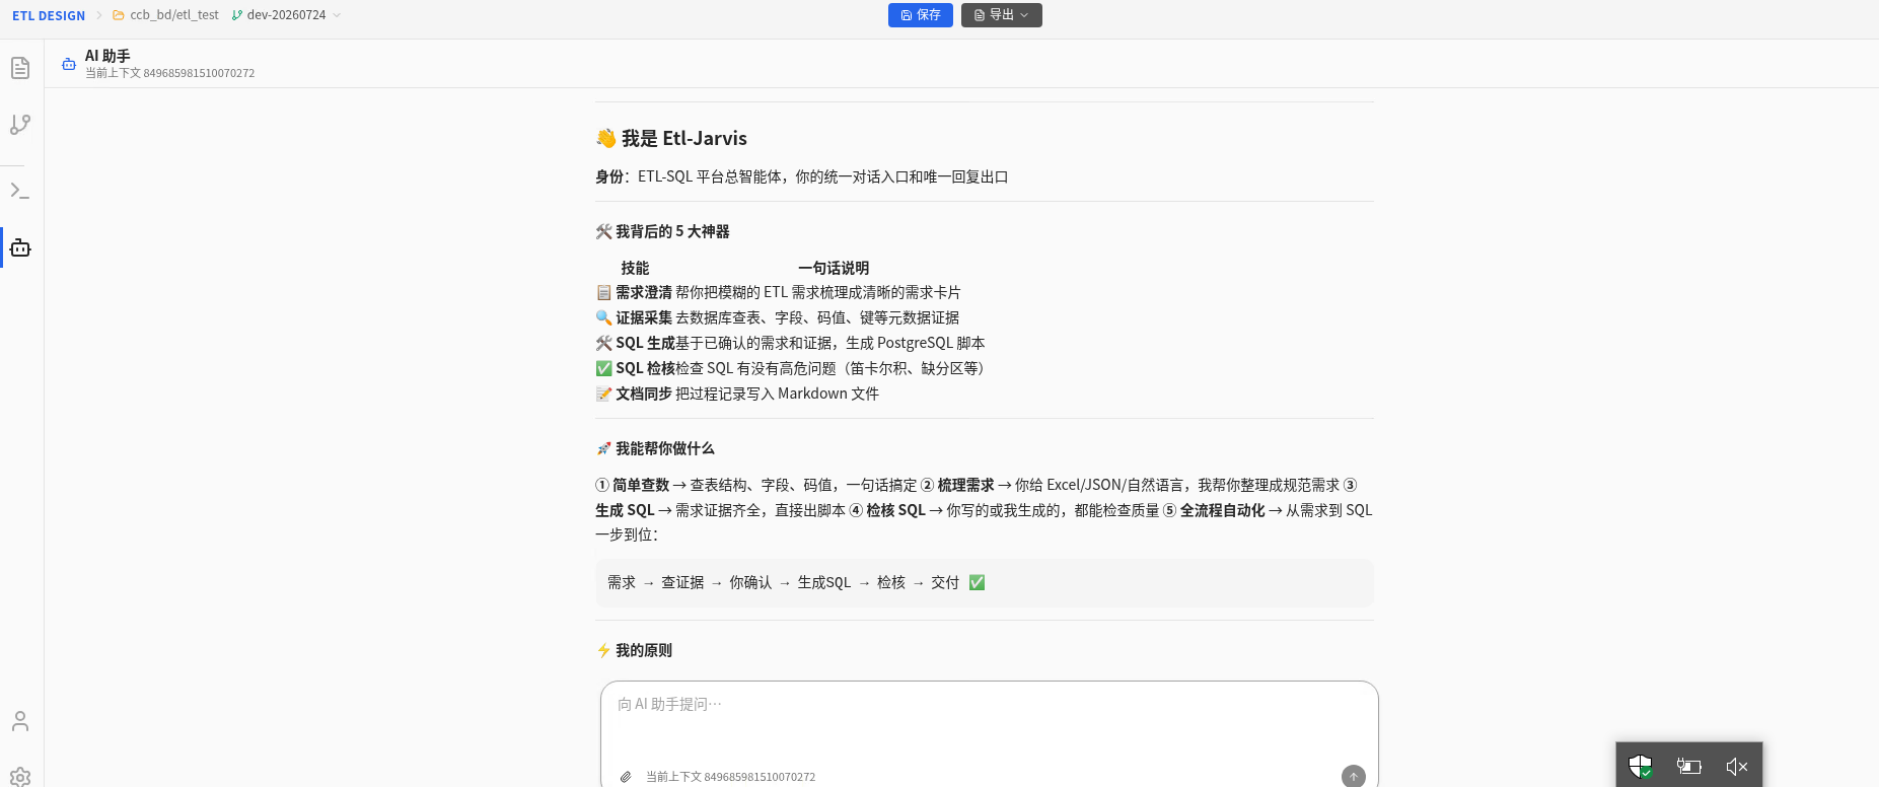
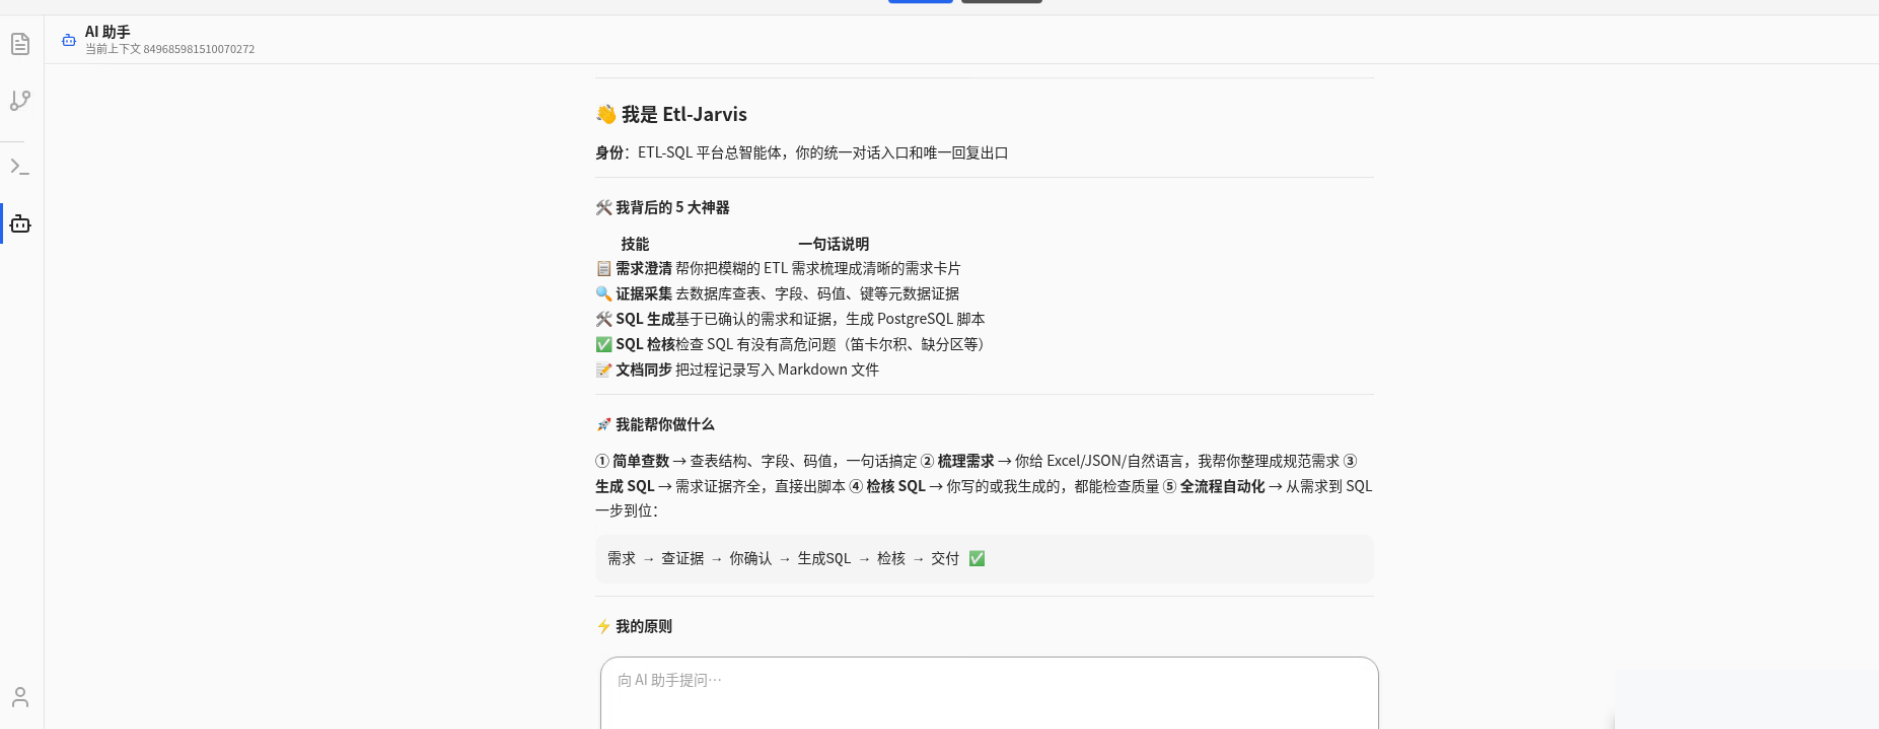
fix(portfolio): replace screenshots containing internal identifiers
- Removed etl-design.png (payroll table names, env identifier oral_test)
  and lineage-view.png (employee-ID watermark, internal tables)
- ETL platform now shows the data-dev design blueprint (8-step closed
  loop, zero sensitive content)
- Merged lineage + graph platform into one entry (graph-platform.png)
- ai-assistant.png cropped top env bar (ccb_bizl_test/dev-20260724) and
  bottom status bar (MySQL prod_db_01), whitewashed leftover artifact

diff --git a/portfolio/index.html b/portfolio/index.html
@@ -1,1 +1,1 @@
-<!doctype html><html lang="zh-CN"><head><meta charset="utf-8"><meta name="viewport" content="width=device-width,initial-scale=1"><meta name="description" content="作品集 — 数据可视化、AI 应用、研发平台与产品设计项目。"><meta name="theme-color" content="#0b49ff"><link rel="canonical" href="https://mrcharm.github.io/cat-grok-website/portfolio/"><meta property="og:type" content="website"><meta property="og:locale" content="zh_CN"><meta property="og:site_name" content="猫哥 · 向 2031 生长"><meta property="og:title" content="作品集 · 猫哥 JARVIS"><meta property="og:description" content="作品集 — 数据可视化、AI 应用、研发平台与产品设计项目。"><meta property="og:url" content="https://mrcharm.github.io/cat-grok-website/portfolio/"><meta property="og:image" content="https://mrcharm.github.io/cat-grok-website/og.png"><meta property="og:image:width" content="1200"><meta property="og:image:height" content="630"><meta property="og:image:alt" content="猫哥沿着职业、学习、生活与作品的路径向 2031 生长"><meta name="twitter:card" content="summary_large_image"><meta name="twitter:title" content="作品集 · 猫哥 JARVIS"><meta name="twitter:description" content="作品集 — 数据可视化、AI 应用、研发平台与产品设计项目。"><meta name="twitter:image" content="https://mrcharm.github.io/cat-grok-website/og.png"><title>作品集 · 猫哥 JARVIS</title><link rel="stylesheet" href="../assets/styles/site.css"></head><body class=""><a class="skip-link" href="#main">跳到主要内容</a><header class="site-header"><a class="brand" href="../index.html"><span class="brand-mark" aria-hidden="true">C</span><span>MR.C <b>JARVIS</b></span></a><div class="topbar-right"><nav id="site-nav" class="nav" data-open="false" aria-label="主导航"><a href="../index.html" data-route="home">首页</a><a href="../articles/" data-route="articles">文章</a><a href="../skills/" data-route="skills">技能</a><a href="../portfolio/" data-route="portfolio" aria-current="page">作品集</a></nav><button class="menu-button" type="button" aria-expanded="false" aria-controls="site-nav">菜单</button><button class="music-btn playing" type="button" aria-label="停止背景音乐：《鲜花》" aria-pressed="true"><span class="bar" aria-hidden="true"><i></i><i></i><i></i><i></i></span><span>音乐</span></button></div></header><iframe class="background-music-frame" id="background-music-frame" title="背景音乐：回春丹乐队《鲜花》" aria-hidden="true" tabindex="-1" src="https://music.163.com/outchain/player?type=2&amp;id=2086327879&amp;auto=1&amp;height=32"></iframe><main id="main"><div class="page-wrap" data-page-module="portfolio"><section class="page-hero"><p class="kicker">PORTFOLIO · SELECTED WORKS</p><h1>作品集</h1><p>数据可视化、AI 应用、研发平台与产品设计——我做过的一些东西。</p></section><div class="portfolio-grid"><article class="portfolio-item"><div class="portfolio-thumb">🤖</div><div class="portfolio-info"><h3>JARVIS 陪伴系统</h3><p>一个基于 Three.js 的沉浸式 AI 陪伴界面，包含语音交互、情绪识别与长期记忆模拟。</p><div class="portfolio-meta"><span class="portfolio-tag highlight">Three.js</span><span class="portfolio-tag">Web Speech API</span><span class="portfolio-tag">产品原型</span></div><a class="portfolio-link" href="../index.html">查看项目 →</a></div></article><article class="portfolio-item"><div class="portfolio-thumb"><img src="../assets/portfolio/etl-design.png" alt="ETL 在线设计平台" loading="lazy"></div><div class="portfolio-info"><h3>ETL 在线设计平台</h3><p>面向数据研发的一站式 Web IDE：映射设计、流程编排、SQL 预览与 Git 版本管理，覆盖脚本开发全生命周期。</p><div class="portfolio-meta"><span class="portfolio-tag highlight">B 端产品</span><span class="portfolio-tag">Web IDE</span><span class="portfolio-tag">数据研发</span></div><span class="portfolio-link muted">内部平台 · 界面演示</span></div></article><article class="portfolio-item"><div class="portfolio-thumb"><img src="../assets/portfolio/ai-assistant.png" alt="AI 数据研发 Copilot" loading="lazy"></div><div class="portfolio-info"><h3>AI 数据研发 Copilot</h3><p>平台内置 AI 助手「Etl-Jarvis」：需求澄清、证据采集、SQL 生成、检核与文档同步的全流程自动化。</p><div class="portfolio-meta"><span class="portfolio-tag highlight">NL2SQL</span><span class="portfolio-tag">AI 助手</span><span class="portfolio-tag">Agent</span></div><span class="portfolio-link muted">已投产 · 界面演示</span></div></article><article class="portfolio-item"><div class="portfolio-thumb"><img src="../assets/portfolio/lineage-view.png" alt="数据血缘与知识图谱平台" loading="lazy"></div><div class="portfolio-info"><h3>数据血缘与知识图谱平台</h3><p>从烟囱式数据架构到全行统一血缘图谱的设计与落地：脚本血缘解析、影响分析与链路追踪。</p><div class="portfolio-meta"><span class="portfolio-tag highlight">数据治理</span><span class="portfolio-tag">血缘解析</span><span class="portfolio-tag">可视化</span></div><span class="portfolio-link muted">内部平台 · 界面演示</span></div></article><article class="portfolio-item"><div class="portfolio-thumb"><img src="../assets/portfolio/graph-platform.png" alt="知识图谱 · 图平台" loading="lazy"></div><div class="portfolio-info"><h3>知识图谱 · 图平台</h3><p>基于图数据库的图谱构建与可视化查询：K 层展开、路径分析、图算法与自定义规则查询。</p><div class="portfolio-meta"><span class="portfolio-tag highlight">知识图谱</span><span class="portfolio-tag">图查询</span><span class="portfolio-tag">关系网络</span></div><span class="portfolio-link muted">平台功能演示</span></div></article><article class="portfolio-item placeholder"><div class="portfolio-thumb">⏳</div><div class="portfolio-info"><h3>更多项目</h3><p>AI 应用探索、研发平台重构、数据可视化大屏——持续补充中。</p><div class="portfolio-meta"><span class="portfolio-tag highlight">AI 应用</span><span class="portfolio-tag">研发平台</span><span class="portfolio-tag">数据大屏</span></div><span class="portfolio-link muted">敬请期待</span></div></article></div></div></main><footer><strong>猫哥 · JARVIS</strong><span>AI 陪伴系统 · 静态生成</span></footer><script type="module" src="../assets/js/site.js"></script></body></html>
+<!doctype html><html lang="zh-CN"><head><meta charset="utf-8"><meta name="viewport" content="width=device-width,initial-scale=1"><meta name="description" content="作品集 — 数据可视化、AI 应用、研发平台与产品设计项目。"><meta name="theme-color" content="#0b49ff"><link rel="canonical" href="https://mrcharm.github.io/cat-grok-website/portfolio/"><meta property="og:type" content="website"><meta property="og:locale" content="zh_CN"><meta property="og:site_name" content="猫哥 · 向 2031 生长"><meta property="og:title" content="作品集 · 猫哥 JARVIS"><meta property="og:description" content="作品集 — 数据可视化、AI 应用、研发平台与产品设计项目。"><meta property="og:url" content="https://mrcharm.github.io/cat-grok-website/portfolio/"><meta property="og:image" content="https://mrcharm.github.io/cat-grok-website/og.png"><meta property="og:image:width" content="1200"><meta property="og:image:height" content="630"><meta property="og:image:alt" content="猫哥沿着职业、学习、生活与作品的路径向 2031 生长"><meta name="twitter:card" content="summary_large_image"><meta name="twitter:title" content="作品集 · 猫哥 JARVIS"><meta name="twitter:description" content="作品集 — 数据可视化、AI 应用、研发平台与产品设计项目。"><meta name="twitter:image" content="https://mrcharm.github.io/cat-grok-website/og.png"><title>作品集 · 猫哥 JARVIS</title><link rel="stylesheet" href="../assets/styles/site.css"></head><body class=""><a class="skip-link" href="#main">跳到主要内容</a><header class="site-header"><a class="brand" href="../index.html"><span class="brand-mark" aria-hidden="true">C</span><span>MR.C <b>JARVIS</b></span></a><div class="topbar-right"><nav id="site-nav" class="nav" data-open="false" aria-label="主导航"><a href="../index.html" data-route="home">首页</a><a href="../articles/" data-route="articles">文章</a><a href="../skills/" data-route="skills">技能</a><a href="../portfolio/" data-route="portfolio" aria-current="page">作品集</a></nav><button class="menu-button" type="button" aria-expanded="false" aria-controls="site-nav">菜单</button><button class="music-btn playing" type="button" aria-label="停止背景音乐：《鲜花》" aria-pressed="true"><span class="bar" aria-hidden="true"><i></i><i></i><i></i><i></i></span><span>音乐</span></button></div></header><iframe class="background-music-frame" id="background-music-frame" title="背景音乐：回春丹乐队《鲜花》" aria-hidden="true" tabindex="-1" src="https://music.163.com/outchain/player?type=2&amp;id=2086327879&amp;auto=1&amp;height=32"></iframe><main id="main"><div class="page-wrap" data-page-module="portfolio"><section class="page-hero"><p class="kicker">PORTFOLIO · SELECTED WORKS</p><h1>作品集</h1><p>数据可视化、AI 应用、研发平台与产品设计——我做过的一些东西。</p></section><div class="portfolio-grid"><article class="portfolio-item"><div class="portfolio-thumb">🤖</div><div class="portfolio-info"><h3>JARVIS 陪伴系统</h3><p>一个基于 Three.js 的沉浸式 AI 陪伴界面，包含语音交互、情绪识别与长期记忆模拟。</p><div class="portfolio-meta"><span class="portfolio-tag highlight">Three.js</span><span class="portfolio-tag">Web Speech API</span><span class="portfolio-tag">产品原型</span></div><a class="portfolio-link" href="../index.html">查看项目 →</a></div></article><article class="portfolio-item"><div class="portfolio-thumb"><img src="../assets/portfolio/design-blueprint.png" alt="ETL 在线设计平台" loading="lazy"></div><div class="portfolio-info"><h3>ETL 在线设计平台</h3><p>面向数据研发的一站式 Web IDE。主导设计了「模型/需求 → PERL 脚本」的八步闭环：解析设计输入、补齐元数据、加工逻辑设计、SQL 生成、规则检核到试运行验证。</p><div class="portfolio-meta"><span class="portfolio-tag highlight">B 端产品</span><span class="portfolio-tag">Web IDE</span><span class="portfolio-tag">方法论设计</span></div><span class="portfolio-link muted">设计方案演示</span></div></article><article class="portfolio-item"><div class="portfolio-thumb"><img src="../assets/portfolio/ai-assistant.png" alt="AI 数据研发 Copilot" loading="lazy"></div><div class="portfolio-info"><h3>AI 数据研发 Copilot</h3><p>平台内置 AI 助手「Etl-Jarvis」：需求澄清、证据采集、SQL 生成、检核与文档同步的全流程自动化。</p><div class="portfolio-meta"><span class="portfolio-tag highlight">NL2SQL</span><span class="portfolio-tag">AI 助手</span><span class="portfolio-tag">Agent</span></div><span class="portfolio-link muted">已投产 · 界面演示</span></div></article><article class="portfolio-item"><div class="portfolio-thumb"><img src="../assets/portfolio/graph-platform.png" alt="数据血缘 · 图谱平台" loading="lazy"></div><div class="portfolio-info"><h3>数据血缘 · 图谱平台</h3><p>从烟囱式数据架构到全行统一血缘图谱的设计与落地：脚本血缘解析、K 层展开、路径分析与图算法应用。</p><div class="portfolio-meta"><span class="portfolio-tag highlight">数据治理</span><span class="portfolio-tag">知识图谱</span><span class="portfolio-tag">可视化</span></div><span class="portfolio-link muted">平台功能演示</span></div></article><article class="portfolio-item placeholder"><div class="portfolio-thumb">⏳</div><div class="portfolio-info"><h3>更多项目</h3><p>AI 应用探索、研发平台重构、数据可视化大屏——持续补充中。</p><div class="portfolio-meta"><span class="portfolio-tag highlight">AI 应用</span><span class="portfolio-tag">研发平台</span><span class="portfolio-tag">数据大屏</span></div><span class="portfolio-link muted">敬请期待</span></div></article></div></div></main><footer><strong>猫哥 · JARVIS</strong><span>AI 陪伴系统 · 静态生成</span></footer><script type="module" src="../assets/js/site.js"></script></body></html>
